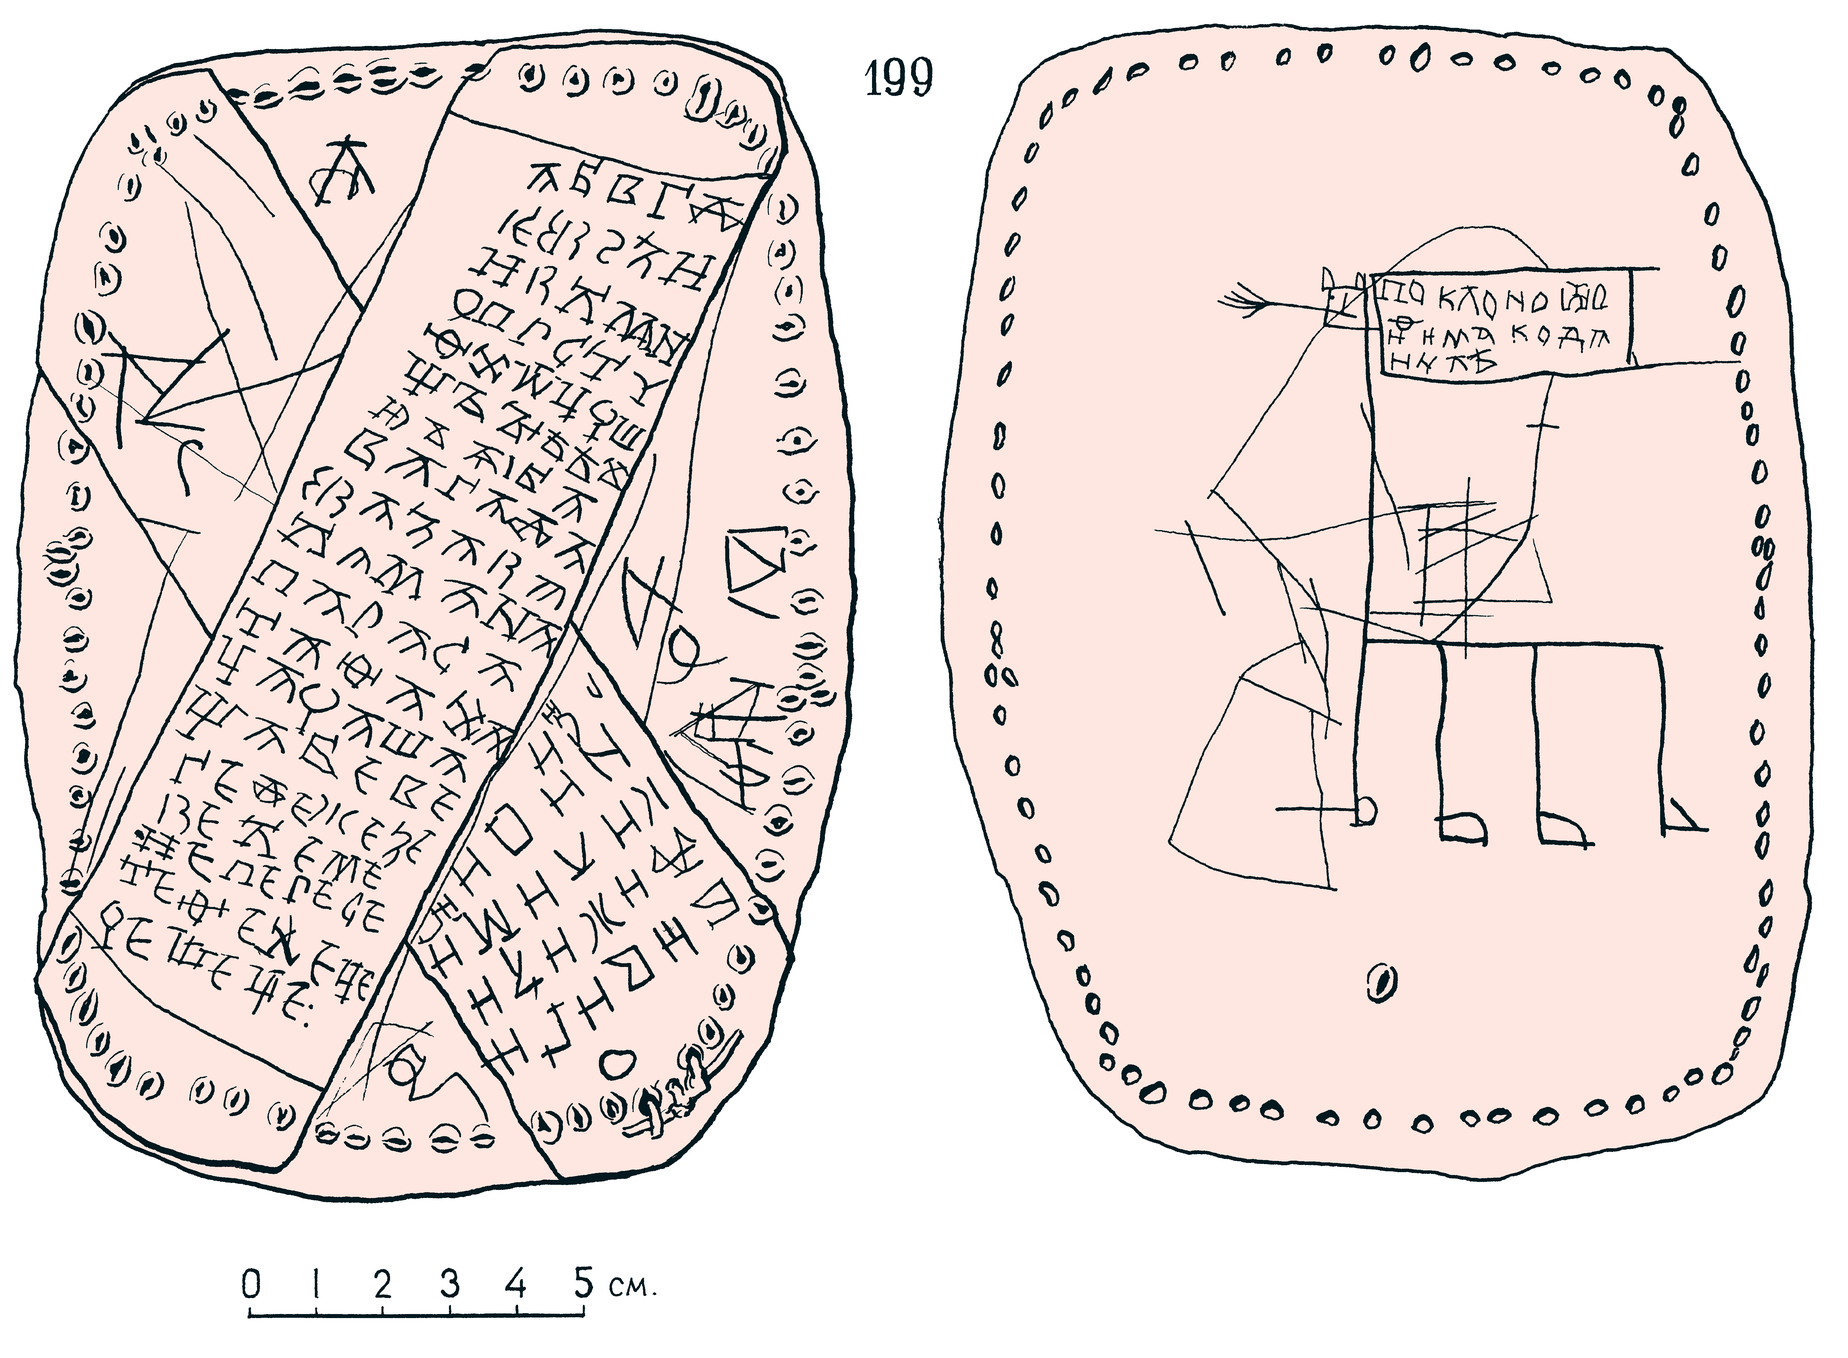
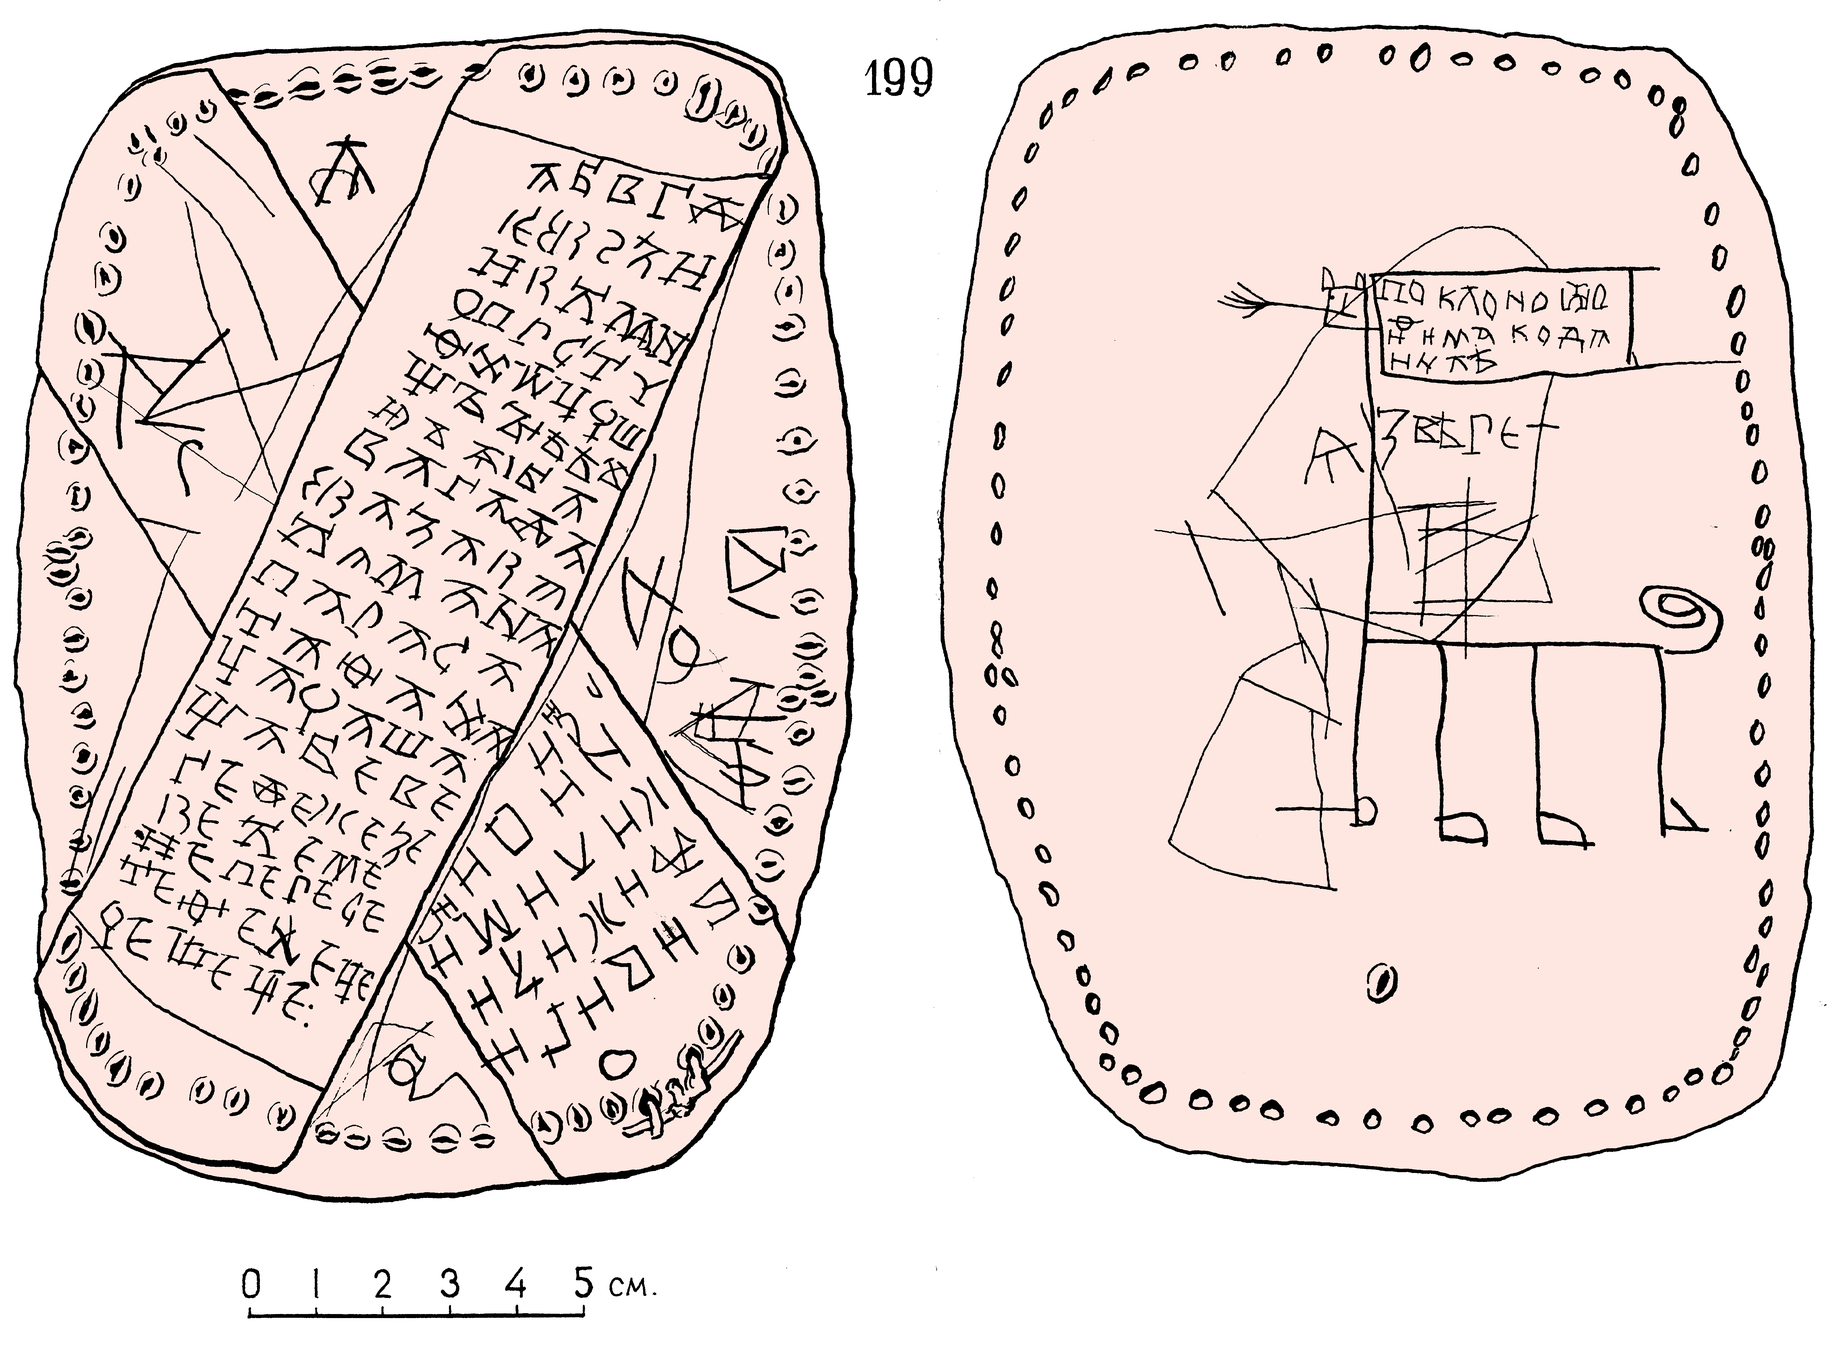
Removed Christmas theme
- Also updated Onfim art that I messed up
- Updated README on the /icons section
- Updated neofetch page for my main PC
- Updated Xenia commission page that was never made
- Updated openfight/readme.html as the git link 404'd, so I updated it to use a mirror

diff --git a/me/pc/neofetch/main-pc/index.html b/me/pc/neofetch/main-pc/index.html
@@ -25,34 +25,34 @@
 			}</style><h1>Cass' Neofetch</h1><hr>
 		<p>Below is the <span aria-hidden="true"><strike>Neofetch</strike></span> fastfetch info for my PC that I thought would be useful to some people, so please enjoy.</p>
 		
-<blockquote><pre>[cass@nova ~]$ fastfetch 
-<font color="#FF79C6"><b>                  -`    </b></font>                 <font color="#FF79C6"><b>cass</b></font>@<font color="#FF79C6"><b>nova</b></font>
-<font color="#FF79C6"><b>                 .o+`    </b></font>                ---------
-<font color="#FF79C6"><b>                `ooo/    </b></font>                <font color="#FF79C6"><b>OS</b></font>: Arch Linux x86_64
-<font color="#FF79C6"><b>               `+oooo:    </b></font>               <font color="#FF79C6"><b>Host</b></font>: MS-7B84 (2.0)
-<font color="#FF79C6"><b>              `+oooooo:    </b></font>              <font color="#FF79C6"><b>Kernel</b></font>: 6.12.4-arch1-1
-<font color="#FF79C6"><b>              -+oooooo+:    </b></font>             <font color="#FF79C6"><b>Uptime</b></font>: 4 hours
-<font color="#FF79C6"><b>            `/:-:++oooo+:    </b></font>            <font color="#FF79C6"><b>Packages</b></font>: 1624 (pacman), 38 (flatpak)
-<font color="#FF79C6"><b>           `/++++/+++++++:    </b></font>           <font color="#FF79C6"><b>Shell</b></font>: bash 5.2.37
-<font color="#FF79C6"><b>          `/++++++++++++++:    </b></font>          <font color="#FF79C6"><b>Display (24G1WG4)</b></font>: 1920x1080 @ 60Hz
-<font color="#FF79C6"><b>         `/+++ooooooooooooo/`    </b></font>        <font color="#FF79C6"><b>DE</b></font>: Xfce4
-<font color="#FF79C6"><b>        ./ooosssso++osssssso+`    </b></font>       <font color="#FF79C6"><b>WM</b></font>: Xfwm4 (X11)
-<font color="#FF79C6"><b>       .oossssso-````/ossssss+`    </b></font>      <font color="#FF79C6"><b>WM Theme</b></font>: Arc-Darkest
-<font color="#FF79C6"><b>      -osssssso.      :ssssssso.    </b></font>     <font color="#FF79C6"><b>Theme</b></font>: Adwaita-dark [GTK2/3/4]
-<font color="#FF79C6"><b>     :osssssss/        osssso+++.    </b></font>    <font color="#FF79C6"><b>Icons</b></font>: Papirus [GTK2/3/4]
-<font color="#FF79C6"><b>    /ossssssss/        +ssssooo/-    </b></font>    <font color="#FF79C6"><b>Font</b></font>: Ubuntu (10pt) [GTK2/3/4]
-<font color="#FF79C6"><b>  `/ossssso+/:-        -:/+osssso+-    </b></font>  <font color="#FF79C6"><b>Cursor</b></font>: phinger-cursors-dark (29px)
-<font color="#FF79C6"><b> `+sso+:-`                 `.-/+oso:    </b></font> <font color="#FF79C6"><b>Terminal</b></font>: xfce4-terminal 1.1.3
-<font color="#FF79C6"><b>`++:.                           `-/+/    Terminal Font</b></font>: Ubuntu Mono (12pt, Bold)
-<font color="#FF79C6"><b>.`                                 `/    CPU</b></font>: AMD Ryzen 5 3600XT (12) @ 4.63496 GHz
-                                         <font color="#FF79C6"><b>GPU</b></font>: AMD Radeon RX 7600
-                                         <font color="#FF79C6"><b>Memory</b></font>: 10.31 GiB / 15.57 GiB (66%)
-                                         <font color="#FF79C6"><b>Disk (</b></font><font color="#FF79C6"><b>/</b></font><font color="#FF79C6"><b>)</b></font>: 407.25 GiB / 465.26 GiB (88%) - btrfs
-                                         <font color="#FF79C6"><b>Disk (</b></font><font color="#FF79C6"><b>/run/media/cass/HOME</b></font><font color="#FF79C6"><b>)</b></font>: 356.01 GiB / 1.79 TiB (19%) - ext4 [Externa]
-                                         <font color="#FF79C6"><b>Locale</b></font>: en_US.UTF-8
+<blockquote><pre>[cass@nova ~]$ fastfetch
+<font color="#ABE7FF"><b>                  -`    </b></font>                 <font color="#ABE7FF"><b>cass</b></font>@<font color="#ABE7FF"><b>nova</b></font>
+<font color="#ABE7FF"><b>                 .o+`    </b></font>                ---------
+<font color="#ABE7FF"><b>                `ooo/    </b></font>                <font color="#ABE7FF"><b>OS</b></font>: Arch Linux x86_64
+<font color="#ABE7FF"><b>               `+oooo:    </b></font>               <font color="#ABE7FF"><b>Host</b></font>: MS-7B84 (2.0)
+<font color="#ABE7FF"><b>              `+oooooo:    </b></font>              <font color="#ABE7FF"><b>Kernel</b></font>: 6.12.4-arch1-1
+<font color="#ABE7FF"><b>              -+oooooo+:    </b></font>             <font color="#ABE7FF"><b>Uptime</b></font>: 1 day, 6 hours, 4 mins
+<font color="#ABE7FF"><b>            `/:-:++oooo+:    </b></font>            <font color="#ABE7FF"><b>Packages</b></font>: 1624 (pacman), 38 (flatpak)
+<font color="#ABE7FF"><b>           `/++++/+++++++:    </b></font>           <font color="#ABE7FF"><b>Shell</b></font>: bash 5.2.37
+<font color="#ABE7FF"><b>          `/++++++++++++++:    </b></font>          <font color="#ABE7FF"><b>Display (24G1WG4)</b></font>: 1920x1080 @ 60Hz
+<font color="#ABE7FF"><b>         `/+++ooooooooooooo/`    </b></font>        <font color="#ABE7FF"><b>DE</b></font>: Xfce4
+<font color="#ABE7FF"><b>        ./ooosssso++osssssso+`    </b></font>       <font color="#ABE7FF"><b>WM</b></font>: Xfwm4 (X11)
+<font color="#ABE7FF"><b>       .oossssso-````/ossssss+`    </b></font>      <font color="#ABE7FF"><b>WM Theme</b></font>: Arc-Darkest
+<font color="#ABE7FF"><b>      -osssssso.      :ssssssso.    </b></font>     <font color="#ABE7FF"><b>Theme</b></font>: Adwaita-dark [GTK2/3/4]
+<font color="#ABE7FF"><b>     :osssssss/        osssso+++.    </b></font>    <font color="#ABE7FF"><b>Icons</b></font>: Papirus [GTK2/3/4]
+<font color="#ABE7FF"><b>    /ossssssss/        +ssssooo/-    </b></font>    <font color="#ABE7FF"><b>Font</b></font>: Ubuntu (10pt) [GTK2/3/4]
+<font color="#ABE7FF"><b>  `/ossssso+/:-        -:/+osssso+-    </b></font>  <font color="#ABE7FF"><b>Cursor</b></font>: phinger-cursors-dark (29px)
+<font color="#ABE7FF"><b> `+sso+:-`                 `.-/+oso:    </b></font> <font color="#ABE7FF"><b>Terminal</b></font>: xfce4-terminal 1.1.3
+<font color="#ABE7FF"><b>`++:.                           `-/+/    Terminal Font</b></font>: Ubuntu Mono (12pt, Bold)
+<font color="#ABE7FF"><b>.`                                 `/    CPU</b></font>: AMD Ryzen 5 3600XT (12) @ 4.63496 GHz
+                                         <font color="#ABE7FF"><b>GPU</b></font>: AMD Radeon RX 7600
+                                         <font color="#ABE7FF"><b>Memory</b></font>: 8.90 GiB / 15.57 GiB (57%)
+                                         <font color="#ABE7FF"><b>Disk (</b></font><font color="#ABE7FF"><b>/</b></font><font color="#ABE7FF"><b>)</b></font>: 416.31 GiB / 465.26 GiB (89%) - btrfs
+                                         <font color="#ABE7FF"><b>Disk (</b></font><font color="#ABE7FF"><b>/run/media/cass/HOME</b></font><font color="#ABE7FF"><b>)</b></font>: 356.01 GiB / 1.79 TiB (19%) - ext4 [Externa]
+                                         <font color="#ABE7FF"><b>Locale</b></font>: en_US.UTF-8
 
-                                         <span style="background-color:#44475A"><font color="#44475A">███</font></span><span style="background-color:#FF5555"><font color="#FF5555">███</font></span><span style="background-color:#50FA7B"><font color="#50FA7B">███</font></span><span style="background-color:#FFB86C"><font color="#FFB86C">███</font></span><span style="background-color:#8BE9FD"><font color="#8BE9FD">███</font></span><span style="background-color:#BD93F9"><font color="#BD93F9">███</font></span><span style="background-color:#FF79C6"><font color="#FF79C6">███</font></span><span style="background-color:#94A3A5"><font color="#94A3A5">███</font></span>
-                                         <span style="background-color:#000000"><font color="#000000"><b>███</b></font></span><span style="background-color:#FF5555"><font color="#FF5555"><b>███</b></font></span><span style="background-color:#50FA7B"><font color="#50FA7B"><b>███</b></font></span><span style="background-color:#FFB86C"><font color="#FFB86C"><b>███</b></font></span><span style="background-color:#8BE9FD"><font color="#8BE9FD"><b>███</b></font></span><span style="background-color:#BD93F9"><font color="#BD93F9"><b>███</b></font></span><span style="background-color:#FF79C6"><font color="#FF79C6"><b>███</b></font></span><span style="background-color:#FFFFFF"><font color="#FFFFFF"><b>███</b></font></span>
+                                         <span style="background-color:#0F0F0F"><font color="#0F0F0F">███</font></span><span style="background-color:#B30000"><font color="#B30000">███</font></span><span style="background-color:#576B5F"><font color="#576B5F">███</font></span><span style="background-color:#CF632B"><font color="#CF632B">███</font></span><span style="background-color:#2F2F8F"><font color="#2F2F8F">███</font></span><span style="background-color:#8B4F6B"><font color="#8B4F6B">███</font></span><span style="background-color:#475B4F"><font color="#475B4F">███</font></span><span style="background-color:#BBBBBB"><font color="#BBBBBB">███</font></span>
+                                         <span style="background-color:#2B230F"><font color="#2B230F"><b>███</b></font></span><span style="background-color:#2B0000"><font color="#2B0000"><b>███</b></font></span><span style="background-color:#53530B"><font color="#53530B"><b>███</b></font></span><span style="background-color:#FFF31B"><font color="#FFF31B"><b>███</b></font></span><span style="background-color:#7373A3"><font color="#7373A3"><b>███</b></font></span><span style="background-color:#B7330F"><font color="#B7330F"><b>███</b></font></span><span style="background-color:#ABE7FF"><font color="#ABE7FF"><b>███</b></font></span><span style="background-color:#D7FFFF"><font color="#D7FFFF"><b>███</b></font></span>
 [cass@nova ~]$ 
 </pre></blockquote><hr><p>Well, it's more <a href="https://github.com/fastfetch-cli/fastfetch">fastfetch</a>, but who's counting? <a href="../../">Click here</a> to see Cass' PC build.</p>
 <div style="text-align:right">

diff --git a/index.html b/index.html
@@ -25,10 +25,10 @@
     <link rel="stylesheet" href="style.css">
 </head>
 <body>
-    <p><center><img src="odds/christmas2024/owlyfans_christmas2024.png" width="577" height="89" style="image-rendering:pixelated" alt="Red text that says &#xAB;OwlyFans&#xBB;." title="Red text that says &#xAB;OwlyFans&#xBB;."></center></p>
+    <p><center><img src="odds/owlyfans_winter2024.png" width="504" height="48" style="image-rendering:pixelated" alt="Red text that says &#xAB;OwlyFans&#xBB;." title="Red text that says &#xAB;OwlyFans&#xBB;."></center></p>
     <hr>
 
-    <img src="odds/christmas2024/xenia01.png" onmouseover="this.src='odds/christmas2024/xenia_christmas2024.gif'" onmouseout="this.src='odds/christmas2024/xenia01.png'" width="274" height="472" style="image-rendering:pixelated" align="right" hspace="15" vspace="5" title="GIF of Xenia the Linux Foxgirl, who is an anthro fox with blonde hair, round glasses, and blonde hair. She is standing up and waving at you, the viewer. Artwork by Z.W.E.I. of locuz.net. All of the images on this website have alt text for the sake of people on screenreaders." alt="GIF of Xenia the Linux Foxgirl, who is an anthro fox with blonde hair, round glasses, and blonde hair. She is standing up and waving at you, the viewer. Artwork by Z.W.E.I. of locuz.net. All of the images on this website have alt text for the sake of people on screenreaders." />
+    <img src="odds/xenia_girl/frame0.png" onmouseover="this.src='odds/xenia_girl/nickisdoge_xenia.gif'" onmouseout="this.src='odds/xenia_girl/frame0.png'" width="318" height="505" style="image-rendering:pixelated" align="right" hspace="15" vspace="5" title="GIF of Xenia the Linux Foxgirl, who is an anthro fox with blonde hair, round glasses, and blonde hair. She is standing up and waving at you, the viewer. Artwork by Z.W.E.I. of locuz.net. All of the images on this website have alt text for the sake of people on screenreaders." alt="GIF of Xenia the Linux Foxgirl, who is an anthro fox with blonde hair, round glasses, and blonde hair. She is standing up and waving at you, the viewer. Artwork by Z.W.E.I. of locuz.net. All of the images on this website have alt text for the sake of people on screenreaders." />
 
     <p>With howling throughout the trees, your hope slowly dies out as the rain starts to hit even harder upon your uncovered head. This was anything but friendly land that you had the misfortune to stumble upon after getting lost from your party. Your hunger grows as your body becomes weak, but just then a guardian angel comes to your aid, an angel in the form of a light shining from a log cabin window.</p>
 

diff --git a/odds/onfim/index.html b/odds/onfim/index.html
@@ -9,8 +9,8 @@
    <tr><th valign="top"><img src="../../icons/blank.png" alt="[ICO]"></th><th><a href="?C=N;O=D">Name</a></th><th><a href="?C=M;O=A">Last modified</a></th><th><a href="?C=S;O=A">Size</a></th><th><a href="?C=D;O=A">Description</a></th></tr>
    <tr><th colspan="5"><hr></th></tr>
 <tr><td valign="top"><img src="../../icons/back.png" alt="[PARENTDIR]"></td><td><a href="/">Parent Directory</a></td><td>&nbsp;</td><td align="right">  - </td><td>&nbsp;</td></tr>
-<tr><td valign="top"><img src="../../icons/image2.png" alt="[IMG]"></td><td><a href="199.png">199.png</a></td><td align="right">2023-10-01 19:52</td><td align="right">418K</td><td>&nbsp;</td></tr>
-<tr><td valign="top"><img src="../../icons/image2.png" alt="[IMG]"></td><td><a href="199b.png">199b.png</a></td><td align="right">2023-12-16 07:48</td><td align="right">424K</td><td>&nbsp;</td></tr>
+<tr><td valign="top"><img src="../../icons/image2.png" alt="[IMG]"></td><td><a href="199.png">199.png</a></td><td align="right">2024-12-26 05:09</td><td align="right">425K</td><td>&nbsp;</td></tr>
+<tr><td valign="top"><img src="../../icons/image2.png" alt="[IMG]"></td><td><a href="199b.png">199b.png</a></td><td align="right">2024-12-26 05:09</td><td align="right">454K</td><td>&nbsp;</td></tr>
 <tr><td valign="top"><img src="../../icons/image2.png" alt="[IMG]"></td><td><a href="200.png">200.png</a></td><td align="right">2023-10-01 19:52</td><td align="right">56K</td><td>&nbsp;</td></tr>
 <tr><td valign="top"><img src="../../icons/image2.png" alt="[IMG]"></td><td><a href="200b.png">200b.png</a></td><td align="right">2023-10-01 19:52</td><td align="right">58K</td><td>&nbsp;</td></tr>
 <tr><td valign="top"><img src="../../icons/image2.png" alt="[IMG]"></td><td><a href="201.png">201.png</a></td><td align="right">2023-10-01 19:52</td><td align="right">81K</td><td>&nbsp;</td></tr>

diff --git a/openfight/readme.html b/openfight/readme.html
@@ -92,7 +92,7 @@
 <li><strong>Blinky the Fish of FreeDOS</strong>: I thought they were a whale, either way, but I just had no idea what to even say.</li>
 <li><strong>Duke of Java</strong>: I don't know what this is meant to be and I don't think I can come up with anything good - I feel like the fight would be exactly like the one with Whales of Funkwhale.</li>
 <li><strong>elePHPant</strong>: I can't really say much apart from «I'm going to get stepped on and not in a hot way».</li>
-<li><strong>Firefish</strong>: The mascot for this project seems to be <a href="https://git.joinfirefish.org/firefish/joinfirefish/-/blob/main/public/branding/title.svg?ref_type=heads">this abstract fish-thing</a>... I'm really not sure what I could ever say about them.</li>
+<li><strong>Firefish</strong>: The mascot for this project seems to be <a href="https://github.com/jclaudan/firefish/blob/main/packages/backend/assets/splash.svg">this abstract fish-thing</a>... I'm really not sure what I could ever say about them.</li>
 <li><strong>Friday Night Funkin'</strong>: I really don't know the lore of the game - sorry!</li>
 <li><strong>Mozilla's dinosaur head thing</strong>: I really don't think there would be much to say about this apart from «Cass would be eaten in seconds».</li>
 <li><strong>Octocat</strong>: Not open-source and one of those «All rights reserved» type cases, plus I can't be asked to write about how I would have my ass handed to me by this little guy - if you are bored <a href="https://octodex.github.com">check out this art of them</a>.</li>

diff --git a/icons/README.html b/icons/README.html
@@ -362,15 +362,15 @@ listing or may be used to denote items in an outline.</td>
 </tr>
 <tr>
 <td width="25%">
- <a href="small/folder.html"><img class="blackico" src="small/folder.html" 
-   /><img class="whiteico" src="small/folder.html" /> small/folder.gif</a>
- <br /><a href="small/folder-2.html"><img class="blackico" src="small/folder-2.html" 
-   /><img class="whiteico" src="small/folder-2.html" /> small/folder.png</a></td>
+ <a href="small/folder.png"><img class="blackico" src="small/folder.png" 
+   /><img class="whiteico" src="small/folder.png" /> small/folder.gif</a>
+ <br /><a href="small/folder.png"><img class="blackico" src="small/folder.png" 
+   /><img class="whiteico" src="small/folder.png" /> small/folder.png</a></td>
 <td width="25%">
- <a href="small/folder2.html"><img class="blackico" src="small/folder2.html" 
-   /><img class="whiteico" src="small/folder2.html" /> small/folder2.gif</a>
- <br /><a href="small/folder2-2.html"><img class="blackico" src="small/folder2-2.html" 
-   /><img class="whiteico" src="small/folder2-2.html" /> small/folder2.png</a></td>
+ <a href="small/folder2.png"><img class="blackico" src="small/folder2.png" 
+   /><img class="whiteico" src="small/folder2.png" /> small/folder2.gif</a>
+ <br /><a href="small/folder2.png"><img class="blackico" src="small/folder2.png" 
+   /><img class="whiteico" src="small/folder2.png" /> small/folder2.png</a></td>
 </tr>
 <tr><td colspan="4">The folder can represent directories. There is also a
 version that can represent secure directories or directories that cannot

diff --git a/odds/xenia_commission/index.html b/odds/xenia_commission/index.html
@@ -22,6 +22,12 @@
     <body>
 <h1>Xenia Commission, May 2023</h1>
 <hr>
+<p><div class="tag">
+<img src="../../emoji/people_animals/aspects/spider_web.svg" align=left hspace=15 vspace=5 width="70" height="70" title="An emoji of an spider's web." alt="An emoji of an spider's web.">
+<h3>This commission was shelved</h3>
+		<p>As of 2024-12-21, this commission has seemly been put on indefinite hiatus. No refund was given, with Cass losing £100.</p>
+	</div>
+
 <p>For this commission, I would like to have artwork drawn of <a href="https://xenia-linux-site.glitch.me">Xenia the Linux foxgirl</a> sitting down in a green field on a sunny day by a tree with some clouds in the sky. She is relaxing while on her laptop and is smiling away.</p>
 
 <p>She should have on shorts and is barepaws. She has a hair clip that has the trans flag colors on. She has long hair that is not tied up. Xenia has on a pair of round glasses.</p>
